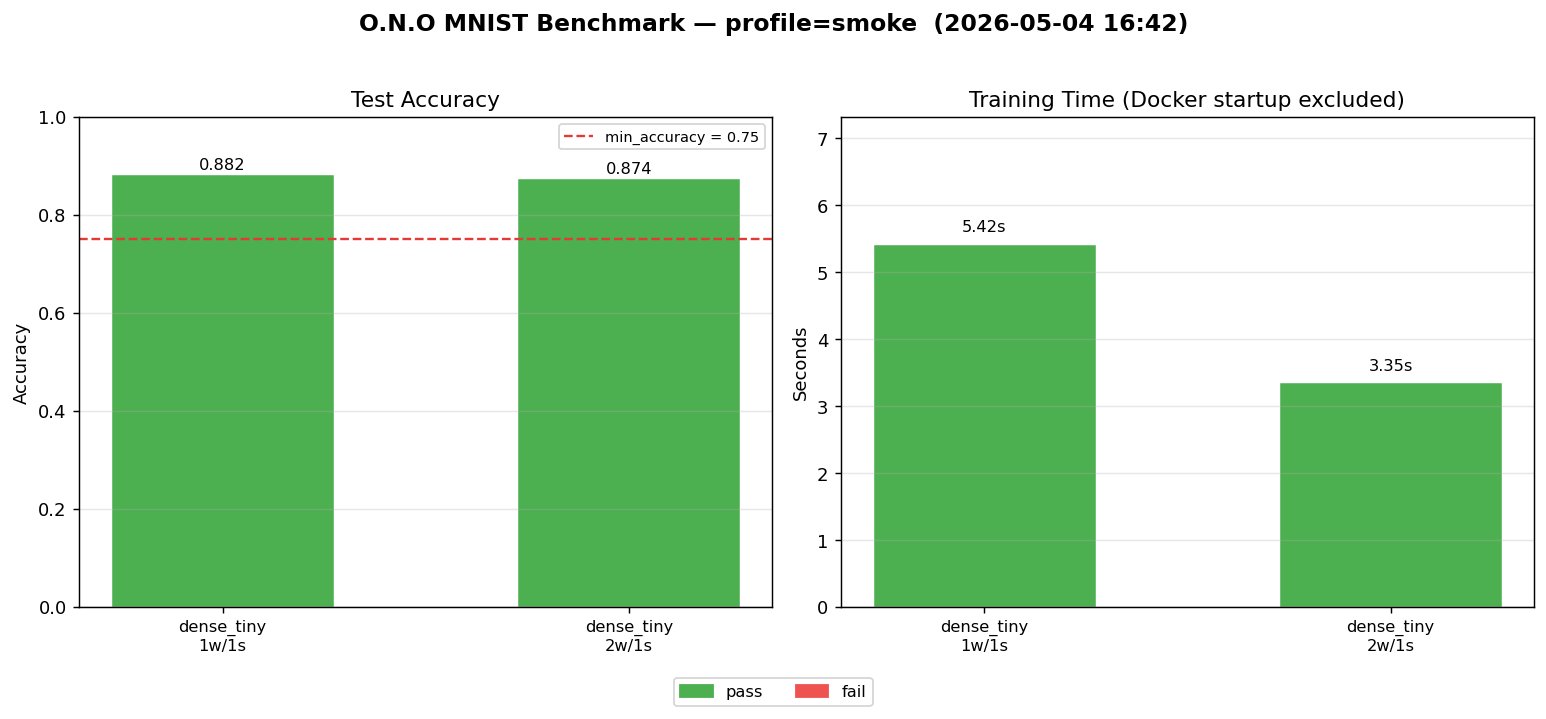
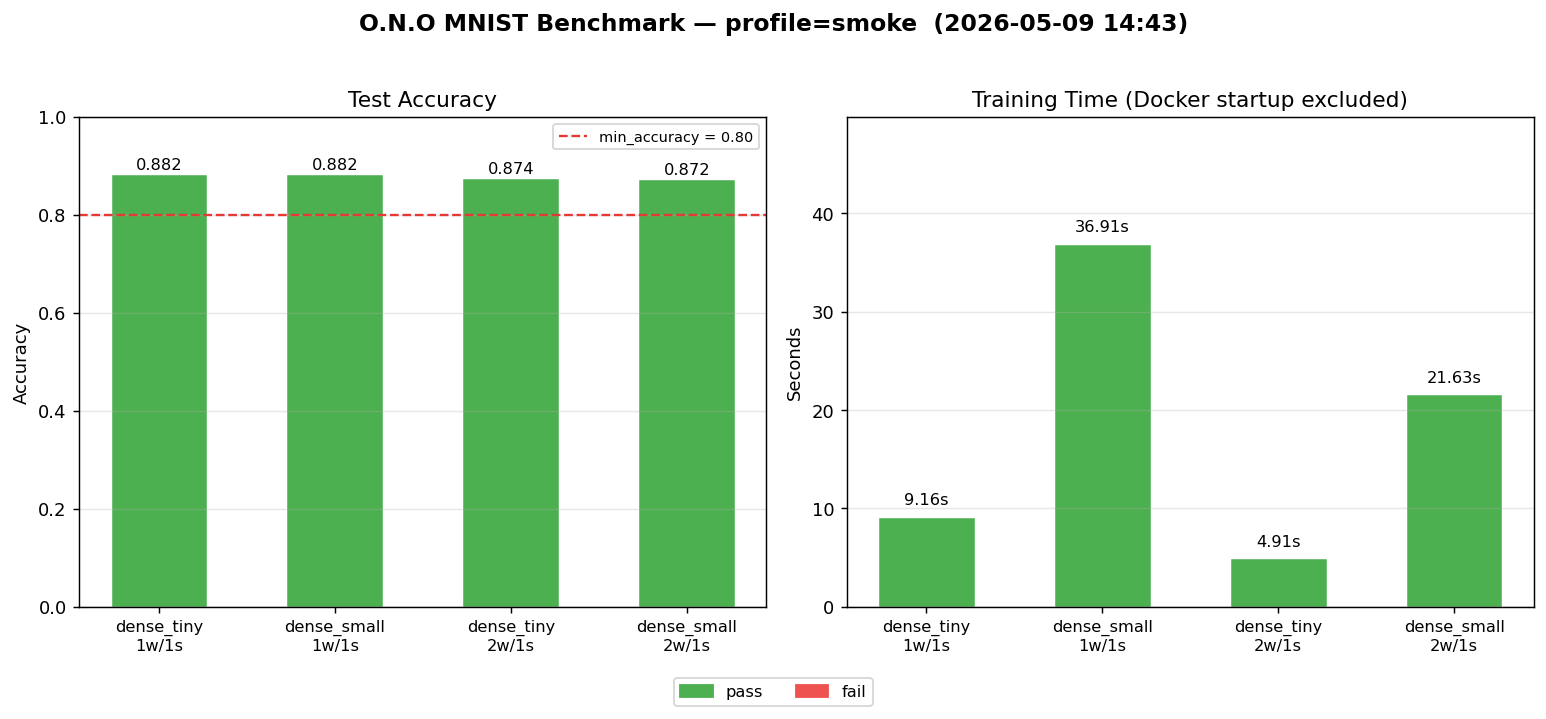
Merge pull request #142 from lminervino18/fix/ring-cleanup-wait
Fix/ring cleanup wait

Pull request: Fix/ring cleanup wait
## Fix: ring cleanup timing en finalize_all_reduce (orchestrator/src/session.rs)

### Problema

Al terminar una sesión AllReduce, `finalize_all_reduce()` enviaba `WorkerHandleRequest::Disconnect` a los canales de cada `worker_listener` task y retornaba inmediatamente sin esperar que los tasks lo procesaran.

Secuencia que causaba el bug:

```
1. finalize_all_reduce()
   ├── PullParams → recibe parámetros del worker líder
   └── for tx in wk_txs: tx.send(Disconnect)  ← encola el mensaje, no espera

2. event_tx.send(TrainingEvent::Complete).await  ← orquestador termina

3. El async block del runtime termina
   └── block_on() retorna → el thread sale → self.runtime se dropea

4. Tokio runtime: shutdown_timeout(0)
   └── Todos los tasks spawneados se CANCELAN inmediatamente
      └── worker_listener tasks: Disconnect está en la queue
          pero el task es cancelado antes de leerlo
          → worker_handle.disconnect().await NUNCA se llama
```

El worker nunca recibe el frame de Disconnect, detecta EOF y sale por `?` en su loop principal, saltándose `ring_manager.disconnect()`. Las conexiones TCP peer-to-peer del ring quedan abiertas. La siguiente sesión lee datos residuales → `buffer too small 0` / `Broken Pipe`.

### Fix 

```rust
// orchestrator/src/session.rs — finalize_all_reduce()

for tx in wk_txs.iter() {
    let _ = tx.send(WorkerHandleRequest::Disconnect).await;
}

// Cada worker_listener tiene un clone de internal_tx.
[…]

diff --git a/orchestrator/src/session.rs b/orchestrator/src/session.rs
@@ -616,9 +616,11 @@ impl Session {
             i = (i + 1) % wk_txs.len();
         };
 
-        for tx in wk_txs {
+        for tx in wk_txs.iter() {
             let _ = tx.send(WorkerHandleRequest::Disconnect).await;
         }
+
+        while internal_rx.recv().await.is_some() {}
 
         params
     }

diff --git a/orchestra-py/src/session.rs b/orchestra-py/src/session.rs
@@ -241,7 +241,8 @@ impl Session {
                                 reporter.update(worker_id, &losses);
                             }
                             Some(TrainingEvent::Complete { model: trained, .. }) => {
-                                break Ok(trained)
+                                while rx.blocking_recv().is_some() {}
+                                break Ok(trained);
                             }
                             Some(TrainingEvent::Error(e)) => break Err(e.to_string()),
                             Some(_) => continue,